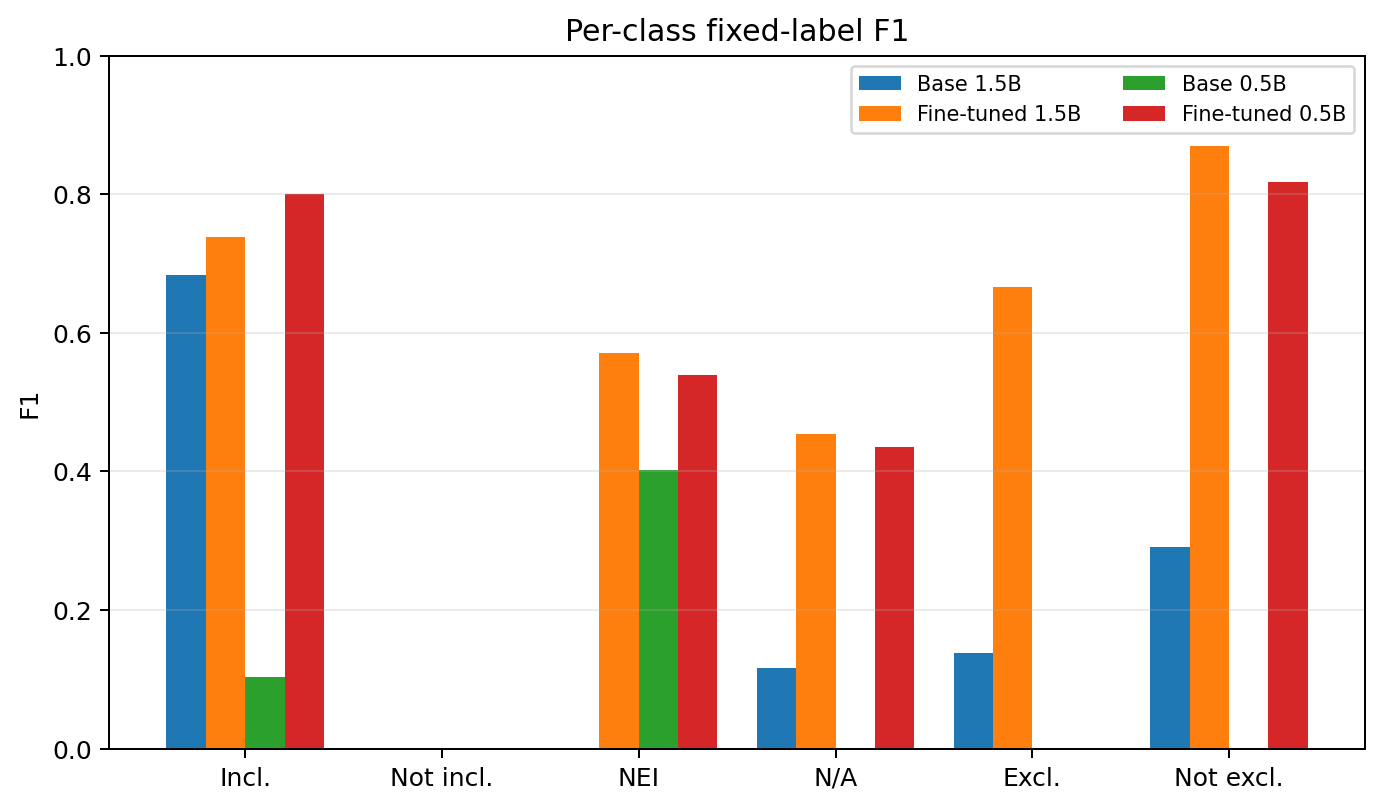
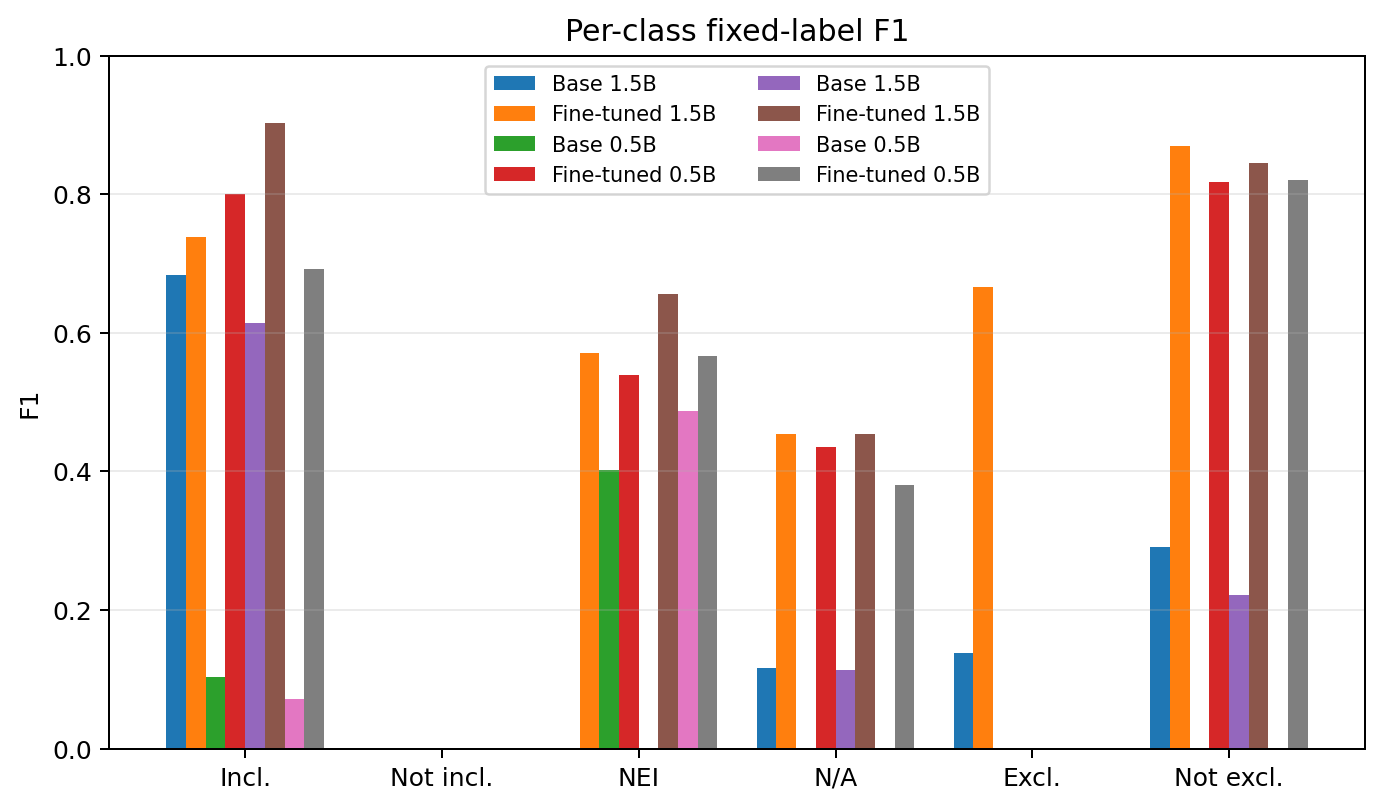
docs: README test results, final HANDOFF; regenerate test figures and tables

diff --git a/report/tables/error_cases.tex b/report/tables/error_cases.tex
@@ -1,0 +1,24 @@
+\begin{table*}[t]
+\centering
+\scriptsize
+\caption{Provisional error candidates for author review; note text is omitted.}
+\label{tab:error-cases}
+\begin{tabularx}{\textwidth}{rllX}
+\toprule
+ID & Variant/type & Gold $\rightarrow$ predicted & Candidate analysis \\
+\midrule
+169 & ft\_1p5b/exclusion & not enough information $\rightarrow$ not excluded & missing\_information\_guess, unsupported\_decision: The expert label is not-enough-information while the model made a decisive judgment; inspect whether the note actually supports that judgment. The output marks a decisive judgment without cited evidence; this should remain a manual-review case. \\
+174 & ft\_1p5b/exclusion & not enough information $\rightarrow$ not excluded & missing\_information\_guess, unsupported\_decision: The expert label is not-enough-information while the model made a decisive judgment; inspect whether the note actually supports that judgment. The output marks a decisive judgment without cited evidence; this should remain a manual-review case. \\
+179 & ft\_0p5b/exclusion & not excluded $\rightarrow$ not excluded & unsupported\_decision, missed\_gold\_evidence: The output marks a decisive judgment without cited evidence; this should remain a manual-review case. The cited evidence does not overlap the expert evidence; inspect the sentence numbering and whether the model missed the supporting fact. \\
+166 & ft\_1p5b/exclusion & not excluded $\rightarrow$ not excluded & evidence\_set\_discrepancy: The model cited sentence IDs outside the expert evidence set; assess relevance locally because expert evidence may not be exhaustive. \\
+193 & ft\_1p5b/exclusion & not enough information $\rightarrow$ not excluded & missing\_information\_guess, unsupported\_decision, missed\_gold\_evidence: The expert label is not-enough-information while the model made a decisive judgment; inspect whether the note actually supports that judgment. The output marks a decisive judgment without cited evidence; this should remain a manual-review case. The cited evidence does not overlap the expert evidence; inspect the sentence numbering and whether the model missed the supporting fact. \\
+307 & ft\_1p5b/inclusion & not enough information $\rightarrow$ not enough information & evidence\_set\_discrepancy: The model cited sentence IDs outside the expert evidence set; assess relevance locally because expert evidence may not be exhaustive. \\
+190 & ft\_0p5b/inclusion & not enough information $\rightarrow$ not enough information & evidence\_set\_discrepancy: The model cited sentence IDs outside the expert evidence set; assess relevance locally because expert evidence may not be exhaustive. \\
+305 & ft\_1p5b/inclusion & not enough information $\rightarrow$ not enough information & evidence\_set\_discrepancy: The model cited sentence IDs outside the expert evidence set; assess relevance locally because expert evidence may not be exhaustive. \\
+315 & base\_1p5b/exclusion & not enough information $\rightarrow$ excluded & missing\_information\_guess, evidence\_set\_discrepancy: The expert label is not-enough-information while the model made a decisive judgment; inspect whether the note actually supports that judgment. The model cited sentence IDs outside the expert evidence set; assess relevance locally because expert evidence may not be exhaustive. \\
+323 & ft\_0p5b/inclusion & not enough information $\rightarrow$ included & missing\_information\_guess: The expert label is not-enough-information while the model made a decisive judgment; inspect whether the note actually supports that judgment. \\
+325 & ft\_1p5b/inclusion & not enough information $\rightarrow$ not enough information & evidence\_set\_discrepancy: The model cited sentence IDs outside the expert evidence set; assess relevance locally because expert evidence may not be exhaustive. \\
+389 & ft\_1p5b/exclusion & not enough information $\rightarrow$ not excluded & missing\_information\_guess, unsupported\_decision: The expert label is not-enough-information while the model made a decisive judgment; inspect whether the note actually supports that judgment. The output marks a decisive judgment without cited evidence; this should remain a manual-review case. \\
+\bottomrule
+\end{tabularx}
+\end{table*}

diff --git a/report/tables/per_class_results.tex b/report/tables/per_class_results.tex
@@ -1,17 +1,17 @@
 \begin{table}[t]
 \centering
-\caption{Per-class precision, recall, and F1 for val ft 1p5b.}
+\caption{Per-class precision, recall, and F1 for test ft 1p5b.}
 \label{tab:per-class}
 \begin{tabular}{lrrrr}
 \toprule
 Label & Precision & Recall & F1 & Support \\
 \midrule
-included & 0.800 & 0.686 & 0.738 & 35 \\
-not included & 0.000 & 0.000 & 0.000 & 3 \\
-not enough information & 0.622 & 0.528 & 0.571 & 53 \\
-not applicable & 0.500 & 0.417 & 0.455 & 12 \\
-excluded & 1.000 & 0.500 & 0.667 & 2 \\
-not excluded & 0.800 & 0.950 & 0.869 & 101 \\
+included & 0.958 & 0.852 & 0.902 & 27 \\
+not included & 0.000 & 0.000 & 0.000 & 7 \\
+not enough information & 0.736 & 0.591 & 0.655 & 66 \\
+not applicable & 0.714 & 0.333 & 0.455 & 15 \\
+excluded & 0.000 & 0.000 & 0.000 & 0 \\
+not excluded & 0.738 & 0.989 & 0.845 & 91 \\
 \bottomrule
 \end{tabular}
 \end{table}

diff --git a/report/tables/main_results.tex b/report/tables/main_results.tex
@@ -6,6 +6,10 @@
 \toprule
 Split & Model & Accuracy & Macro-F1 & Accuracy CI & Macro-F1 CI \\
 \midrule
+TEST & Base 0.5B & 0.325 & 0.093 & [0.262, 0.393] & [0.071, 0.122] \\
+TEST & Base 1.5B & 0.204 & 0.158 & [0.150, 0.262] & [0.126, 0.188] \\
+TEST & Fine-tuned 0.5B & 0.694 & 0.410 & [0.636, 0.752] & [0.347, 0.469] \\
+TEST & Fine-tuned 1.5B & 0.762 & 0.476 & [0.704, 0.816] & [0.420, 0.529] \\
 VAL & Base 0.5B & 0.257 & 0.084 & [0.204, 0.320] & [0.061, 0.111] \\
 VAL & Base 1.5B & 0.267 & 0.204 & [0.209, 0.330] & [0.165, 0.243] \\
 VAL & Fine-tuned 0.5B & 0.714 & 0.432 & [0.650, 0.777] & [0.365, 0.487] \\

diff --git a/report/tables/result_macros.tex b/report/tables/result_macros.tex
@@ -8,7 +8,7 @@
 \newcommand{\TestPatientCount}{8}
 \newcommand{\TestAnnotationCount}{206}
 \newcommand{\ValidationHeadlineMacroFone}{0.5500}
-\newcommand{\TestHeadlineAccuracy}{\textit{pending final evaluation}}
-\newcommand{\TestHeadlineMacroFone}{\textit{pending final evaluation}}
-\newcommand{\TestHeadlineAccuracyCI}{--}
-\newcommand{\TestHeadlineMacroFoneCI}{--}
+\newcommand{\TestHeadlineAccuracy}{0.7621}
+\newcommand{\TestHeadlineMacroFone}{0.4762}
+\newcommand{\TestHeadlineAccuracyCI}{[0.704, 0.816]}
+\newcommand{\TestHeadlineMacroFoneCI}{[0.420, 0.529]}

diff --git a/report/tables/evidence_results.tex b/report/tables/evidence_results.tex
@@ -6,6 +6,10 @@
 \toprule
 Split & Model & Micro-F1 & Primary macro-F1 & Empty gold & Abstention acc. \\
 \midrule
+TEST & Base 0.5B & 0.020 & 0.007 & 145 & 1.000 \\
+TEST & Base 1.5B & 0.242 & 0.498 & 145 & 0.000 \\
+TEST & Fine-tuned 0.5B & 0.473 & 0.526 & 145 & 0.890 \\
+TEST & Fine-tuned 1.5B & 0.542 & 0.584 & 145 & 0.897 \\
 VAL & Base 0.5B & 0.030 & 0.009 & 116 & 0.991 \\
 VAL & Base 1.5B & 0.216 & 0.409 & 116 & 0.000 \\
 VAL & Fine-tuned 0.5B & 0.420 & 0.470 & 116 & 0.888 \\

diff --git a/docs/HANDOFF.md b/docs/HANDOFF.md
@@ -1,79 +1,40 @@
 # CriterionLens Handoff
 
-The official application is the locally hosted Gradio app. Start it on Windows
-from the repository root with `run_app.bat`; it opens
-`http://127.0.0.1:7860`. See the README for setup, first-use model downloads,
-CPU/GPU behavior, and troubleshooting.
+Everything automated is done. Only the human tasks at the bottom remain.
 
-The Hugging Face Space was not created: in 2026, Hugging Face requires PRO for
-free `cpu-basic` Gradio Spaces. The assignment permits a browser-accessible
-locally hosted app. `space/` and `scripts/deploy_space.py` remain available if
-PRO becomes available, but Space deployment is not required and should not be
-retried as a prerequisite.
+## Application
+The official application is the **locally hosted Gradio app** (the assignment allows "a browser-accessible locally hosted or deployed application").
+Start it on Windows from the repository root with `run_app.bat`. It opens `http://127.0.0.1:7860`. See the README for setup, first-use model downloads, CPU/GPU behaviour and troubleshooting.
+No Hugging Face Space was created, because in 2026 Hugging Face requires PRO for `cpu-basic` Gradio Spaces (D-025). `space/` and `scripts/deploy_space.py` remain ready if PRO is ever available.
 
-## Checkpoint status — 2026-11-10 05:44:40 +05:00
+## Links to submit
+- GitHub: https://github.com/SyedAshherMajid/criterion-lens (**make public before submitting**, see below)
+- Report PDF: `report/CriterionLens_IEEE.pdf` (in the repo)
+- Weights (public on the Hugging Face Hub):
+  - 1.5B LoRA adapter (headline): https://huggingface.co/Ashher123/criterion-lens-qwen2.5-1.5b-lora
+  - 1.5B merged: https://huggingface.co/Ashher123/criterion-lens-qwen2.5-1.5b-merged
+  - 0.5B LoRA adapter: https://huggingface.co/Ashher123/criterion-lens-qwen2.5-0.5b-lora
+  - 0.5B merged: https://huggingface.co/Ashher123/criterion-lens-qwen2.5-0.5b-merged
+- Split manifest: `data/splits/split_manifest.json` (attach the file too)
+- Benchmark logs: `results/bench/` and `results/kaggle/benchmarks/`
+- Test access log: `results/TEST_ACCESS_LOG.md`
+- Demo video: _add your link here after uploading_
 
-- Latest checkpoint commit: [`8ea9ab7`](https://github.com/SyedAshherMajid/criterion-lens/commit/8ea9ab7).
-- No Kaggle kernel is currently running. The train kernel is `COMPLETE`; the
-  prior evaluation/benchmark kernel is `ERROR` after all four validation
-  evaluations completed and the benchmark step failed because the 1.5B merged
-  model was not yet on the Hub. The validation outputs are already committed;
-  do not rerun or download them again.
-- The public 1.5B merged-model repository is still uploading. The last check
-  saw 69% progress, and the Hub API listed only `.gitattributes`; verify that
-  `config.json` and model weights are listed and publicly accessible before
-  launching benchmarks.
-- The private Kaggle code dataset is ready, but re-sync the latest committed
-  source before the next job.
-
-## Current links
-
-- GitHub: [CriterionLens repository](https://github.com/SyedAshherMajid/criterion-lens).
-- Hugging Face models:
-  - [Qwen2.5 0.5B LoRA adapter](https://huggingface.co/Ashher123/criterion-lens-qwen2.5-0.5b-lora)
-  - [Qwen2.5 1.5B LoRA adapter](https://huggingface.co/Ashher123/criterion-lens-qwen2.5-1.5b-lora)
-  - [Qwen2.5 0.5B merged model](https://huggingface.co/Ashher123/criterion-lens-qwen2.5-0.5b-merged)
-  - [Qwen2.5 1.5B merged model](https://huggingface.co/Ashher123/criterion-lens-qwen2.5-1.5b-merged) — upload in progress; not ready for benchmarking until weights/config are visible.
-- Kaggle:
-  - [Private code dataset](https://www.kaggle.com/datasets/syedashhermajid/criterion-lens-code) — ready.
-  - [Training kernel](https://www.kaggle.com/code/syedashhermajid/criterion-lens-train) — `COMPLETE`.
-  - [Prior evaluation/benchmark kernel](https://www.kaggle.com/code/syedashhermajid/criterion-lens-eval-bench) — `ERROR` after the four completed validation runs; do not rerun validation.
-  - [Old smoke-test kernel](https://www.kaggle.com/code/syedashhermajid/criterion-lens-smoketest) — ignore.
-  - Benchmarks-only kernel slug to push: `syedashhermajid/criterion-lens-benchmarks`; it has not been pushed. Source: [`kaggle/jobs/benchmarks/`](../kaggle/jobs/benchmarks/).
-  - Final-test kernel slug to push only after `v1.0-frozen`: `syedashhermajid/criterion-lens-eval-test-final`; source metadata: [`kernel-metadata.json`](../kaggle/jobs/eval_test_final/kernel-metadata.json).
-
-## Ordered next steps
-
-1. **Benchmarks-only Kaggle job:** verify the 1.5B merged model is public with
-   its weights/config, sync the latest source, push
-   `syedashhermajid/criterion-lens-benchmarks` with T4, then download only
-   benchmark outputs (KV, attention, and speculative CSV/JSON; do not rerun
-   validation).
-2. **Freeze:** freeze the selected prompt/decoding and adapters; commit/tag
-   `v1.0-frozen`, then sync the source dataset from that exact tag.
-3. **Final test evaluation:** push
-   `syedashhermajid/criterion-lens-eval-test-final` once; download the four
-   `test_*` result folders and `results/TEST_ACCESS_LOG.md`.
-4. **Error analysis + figures:** run `scripts/error_analysis.py` on the final
-   test outputs, then regenerate figures and tables.
-5. **Report:** fill generated final numbers and compile `report/main.tex`
-   locally with MiKTeX to `report/CriterionLens_IEEE.pdf`.
-6. **README + HANDOFF.md:** replace pending results/PDF placeholders, add
-   verified links, and leave only video recording, submission, and live
-   defense as human tasks.
-
-## Defense day
-
-- [ ] Start the app with `run_app.bat` and confirm it opens at
-  `http://127.0.0.1:7860`.
-- [ ] Test one unseen **synthetic or appropriately de-identified** patient note
-  with trial criteria; verify evidence, missing information, the preliminary
-  outcome, and report export.
-- [ ] Use `run_app.bat --share` only if the evaluator needs remote access. The
-  link is temporary; do not submit real or identifiable patient information.
+## Final state (10 Nov 2026)
+- Freeze tag `v1.0-frozen` = commit `b1b089d`. The one-time test evaluation ran on Kaggle (2× T4) from that tag: four rows in `results/TEST_ACCESS_LOG.md`.
+- Headline (test, fine-tuned 1.5B): accuracy 0.762 [0.704, 0.816], fixed-label macro-F1 0.476 [0.420, 0.529]. Base 1.5B: accuracy 0.204.
+- Error analysis: `docs/ERROR_ANALYSIS.md` (12 curated cases + automated candidates).
+- Kaggle kernels (private, account `syedashhermajid`): `criterion-lens-train`, `criterion-lens-eval-bench` (validation), `criterion-lens-benchmarks`, `criterion-lens-eval-test-final`.
 
 ## Human-only remaining tasks
+1. **Record the 5–7 min demo video** following `docs/REPORT_OUTLINE.md` → "Demo video script". Start the app with `run_app.bat`. Upload it unlisted (YouTube or Google Drive with link access) and paste the link into the README "Demo video" row and above.
+2. **Make the repo public:** `gh repo edit SyedAshherMajid/criterion-lens --visibility public --accept-visibility-change-consequences`, then open it in a logged-out browser to check.
+3. **Submit on Google Classroom:** the report PDF, GitHub URL, startup instructions (README), weight links, the split manifest JSON, benchmark logs and the video link.
+4. **After grading:** regenerate the Hugging Face and Kaggle tokens. They were visible in a screenshot.
 
-- Record the demo video.
-- Submit the required materials.
-- Attend and complete the live defense.
+## Defense day
+- [ ] Start the app with `run_app.bat` and confirm it opens at `http://127.0.0.1:7860`. Run one example first so the model is downloaded and warm.
+- [ ] Test one unseen **synthetic or de-identified** patient note with trial criteria. Show the evidence, missing information, the preliminary outcome and the report export.
+- [ ] Show the Inference Lab (no-cache vs KV cache vs speculative) and the Attention Lab live.
+- [ ] Use `run_app.bat --share` only if the evaluator needs remote access. The link is temporary.
+- [ ] Be ready to explain: the KV-cache position handling (`docs/PLAN.md` §7), online softmax (§8), speculative accept/rollback (§9), and why absence-as-negation is the main error (`docs/ERROR_ANALYSIS.md`).

diff --git a/README.md b/README.md
@@ -10,7 +10,7 @@
 | Optional hosted app | Hugging Face Space files are ready in `space/`; creation requires HF PRO for `cpu-basic` |
 | Paper (IEEE) | _TBD (`report/CriterionLens_IEEE.pdf`)_ |
 | Fine-tuned adapters | [Qwen2.5 1.5B LoRA](https://huggingface.co/Ashher123/criterion-lens-qwen2.5-1.5b-lora) · [Qwen2.5 0.5B LoRA](https://huggingface.co/Ashher123/criterion-lens-qwen2.5-0.5b-lora) |
-| Merged 0.5B model | [Qwen2.5 0.5B merged](https://huggingface.co/Ashher123/criterion-lens-qwen2.5-0.5b-merged) |
+| Merged models | [Qwen2.5 1.5B merged](https://huggingface.co/Ashher123/criterion-lens-qwen2.5-1.5b-merged) · [Qwen2.5 0.5B merged](https://huggingface.co/Ashher123/criterion-lens-qwen2.5-0.5b-merged) |
 | Demo video | _TBD_ |
 | Split manifest | [`data/splits/split_manifest.json`](data/splits/split_manifest.json) |
 
@@ -23,8 +23,19 @@ Given a patient note and a trial's inclusion/exclusion criteria, CriterionLens j
 - **App:** a Gradio browser app with screening, live inference/attention benchmarking and report export.
 - **Deployment:** locally hosted on Windows; the assignment allows a browser-accessible local application. A free Hugging Face `cpu-basic` Space could not be created because HF requires PRO (2026); deployment files remain ready if PRO becomes available.
 
-## Results (held-out test split, 8 patients)
-_TBD — generated from `results/eval/` by `scripts/make_figures.py`._
+## Results (held-out test split, 8 patients, 206 criteria)
+Evaluated **once** at tag `v1.0-frozen` (see [`results/TEST_ACCESS_LOG.md`](results/TEST_ACCESS_LOG.md)). Greedy decoding. 95% bootstrap CIs (1,000 resamples) are in `report/tables/main_results.tex`.
+
+| Model | Accuracy [95% CI] | Macro-F1 (all 6 labels) | Evidence micro-F1 | Evidence macro-F1* | Abstention acc. |
+|---|---|---|---|---|---|
+| Base Qwen2.5-0.5B | 0.325 | 0.093 | 0.020 | 0.007 | 1.000 |
+| Base Qwen2.5-1.5B | 0.204 | 0.158 | 0.242 | 0.498 | 0.000 |
+| Fine-tuned 0.5B (LoRA) | 0.694 | 0.410 | 0.473 | 0.526 | 0.890 |
+| **Fine-tuned 1.5B (LoRA, headline)** | **0.762 [0.704, 0.816]** | **0.476 [0.420, 0.529]** | **0.542** | **0.584** | 0.897 |
+
+\*Averaged over criteria with non-empty expert evidence. Macro-F1 averages all six fixed labels, so labels that never occur in the 8 test patients count as 0. Averaged over only the labels present, the fine-tuned 1.5B scores 0.571. JSON parse failures for both fine-tuned models: 0%. Validation results, per-class scores and confusion matrices: `results/eval/`, `results/figures/`. Error analysis (12 distinct cases): [`docs/ERROR_ANALYSIS.md`](docs/ERROR_ANALYSIS.md).
+
+Inference-mechanism benchmarks (Kaggle T4): see [Benchmarks](#benchmarks-kaggle-tesla-t4).
 
 ## Windows quick start
 
